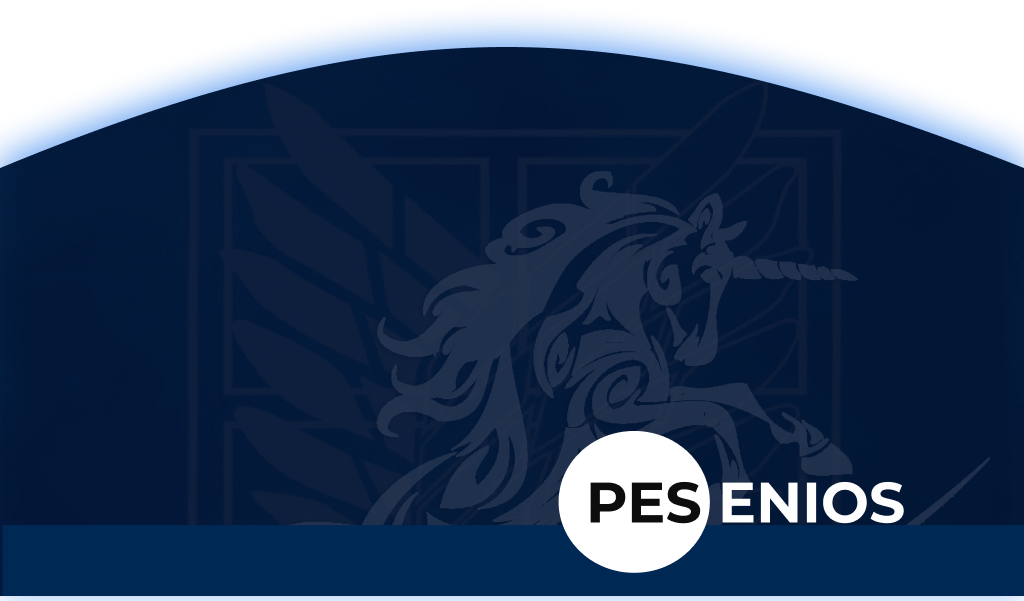
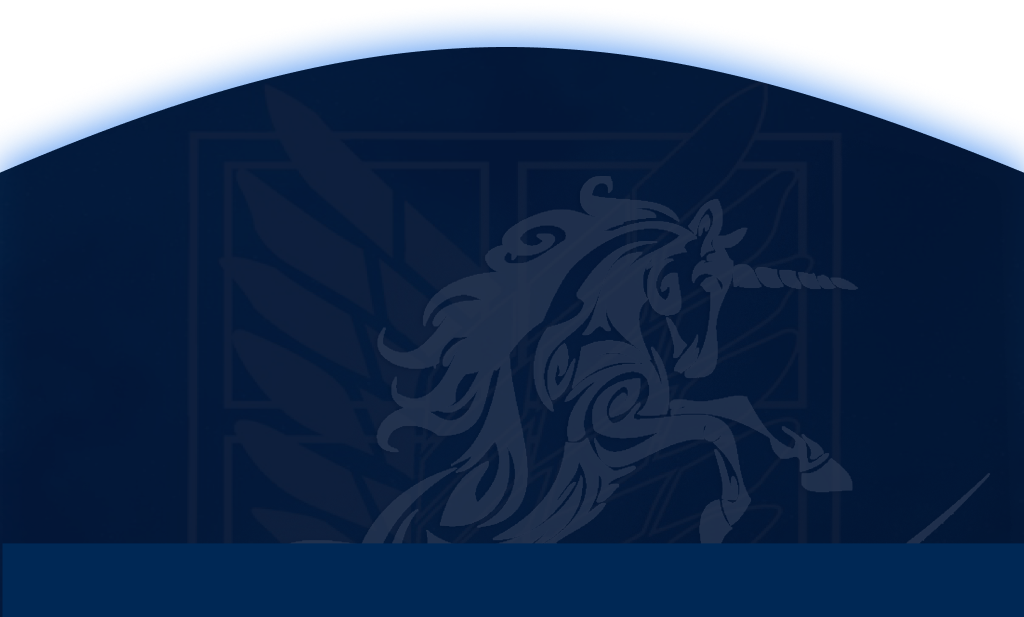
footer section modified 1.1

diff --git a/static/assets/css/enosis.css b/static/assets/css/enosis.css
@@ -596,6 +596,8 @@ body   {
 
 /* gallery section starts for pc */
 
+
+
 .gallery  {
     grid-template-rows: 1fr 3fr;
     margin-top: 100px;
@@ -663,10 +665,20 @@ body   {
     width: 70px;
 }
 
+
+/* gallery section for pc ends */
+
+
+/* footer section starts for pc */
+
+
+
 .footer  {
     margin-top: 30px;
     height: 100vh;
     width: 100vw;
+    display: grid;
+    grid-template-rows: 4fr 1fr;
 }
 
 .footer::before {
@@ -677,8 +689,63 @@ body   {
     background-image: url('/static/assets/images/footer.png');
     background-size: 100% 100%;
     background-position: center;
+    z-index: -1;
 
 }
+
+.footer-list  {
+    grid-row: 1/2;
+    align-self: flex-end;
+    justify-self: center;
+}
+
+.footer-list a  {
+    text-decoration: none;
+    color: white;
+    font-size: 3.5vw;
+    text-align: center;
+    font-weight: bold;
+    padding-bottom: 10px;
+}
+
+.list-container  {
+    text-align: center;
+}
+
+.list-container li  {
+    padding-bottom: 2vw;
+}
+
+
+.footer-base  {
+    grid-row: 2/3;
+    display: grid;
+    grid-template-columns: 1fr 1fr;
+}
+
+.copyright  {
+    color: white;
+    font-weight: bold;
+    font-size: 2.5vw;
+    font-family: sans-serif;
+    align-self: flex-end;
+    line-height: 12vh;
+}
+
+.footer-logo  {
+    justify-self: right;
+    align-self: center;
+    grid-column: 2/3 ;
+}
+
+.footer-logo img  {
+    height: 10vw;
+}
+
+
+/* footer section ends for pc */
+
+
 
 @media only screen and (orientation: portrait) {
     
@@ -1023,7 +1090,55 @@ body   {
 }
 
 
-/* hall of fame section ends for mobile */
+/* gallery section ends for mobile */
+
+
+
+/* footer section starts for mobile */
+
+
+.footer  {
+    height: 56vh;
+    grid-template-rows: 4fr 1fr;
+}
+
+.footer::before {
+    height: 56vh;
+    background-image: url('/static/assets/images/footer-logo-min.png');
+}
+
+.footer-list a  {
+    font-size: 4.2vw;
+    font-weight: bold;
+}
+
+.list-container li  {
+    padding-bottom: 3vw;
+}
+
+.footer-base  {
+    grid-template-columns: 2fr 1fr;
+}
+
+.copyright  {
+    font-size: 3vw;
+    line-height: 8vh;
+    margin-left: 2.2rem;
+}
+
+.footer-logo  {
+    justify-self: right;
+    align-self: center;
+    margin-top: 4vw;
+    grid-column: 2/3 ;
+}
+
+.footer-logo img  {
+    height: 10vw;
+}
+
+
+/* footer section ends for mobile */
 
 }
 

diff --git a/index.html b/index.html
@@ -257,8 +257,31 @@
 
             <!--gallery section ends-->
 
+            <!--footer section starts-->
+
             <section class="footer">
+
+                <div class="footer-list">
+                    <ul class="list-container">
+                        <li><a href="">TROPHIES</a></li>
+                        <li><a href="">BLOG</a></li>
+                        <li><a href="">ABOUT US</a></li>
+                        <li><a href="">HALL OF FAME</a></li>
+                        <li><a href="">GALLERY</a></li>
+                    </ul>
+                </div>
+
+
+                <div class="footer-base">
+                    <div class="copyright"> Copyright reserved by PES ENIOS</div>
+                    <div class="footer-logo">
+                    <img src="/static/assets/images/footer-logo.png" alt="">
+                    </div>
+                </div>
             </section>
+
+
+            <!--footer section ends-->
 
         </main>
         <script src="https://cdnjs.cloudflare.com/ajax/libs/jquery/3.5.1/jquery.min.js"></script>
